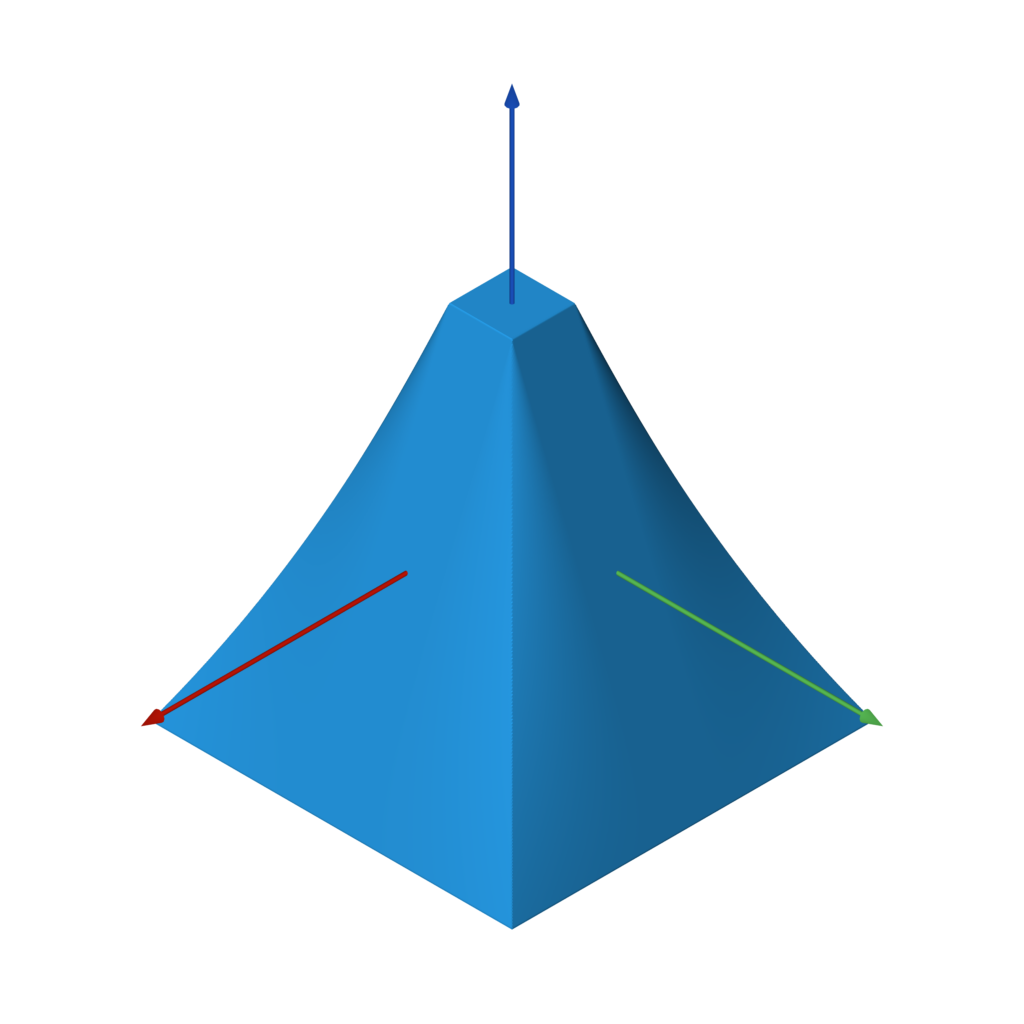
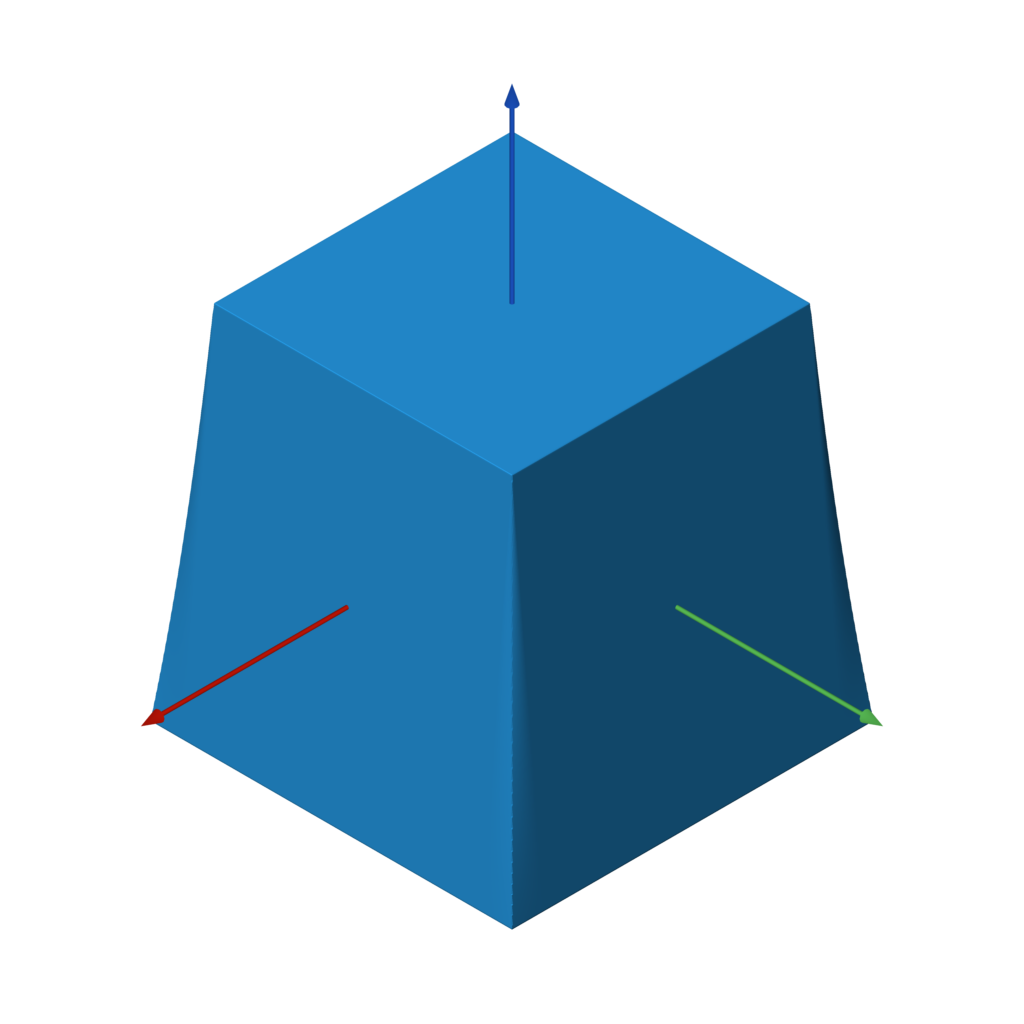
wip, fix taper example

diff --git a/docs/render.py b/docs/render.py
@@ -210,7 +210,7 @@ generate(f, 'rounded_extrude')
 f = rectangle(2).extrude_to(circle(1), 2, ease.in_out_quad)
 generate(f, 'extrude_to')
 
-f = rectangle(2).extrude_to(rectangle(2*np.sin(10/180*np.pi)), 2, ease.linear)
+f = rectangle(2).extrude_to(rectangle(2-2*np.tan(10/180*np.pi)), 2, ease.linear)
 generate(f, 'extrude_to_taper')
 
 # revolve(other, offset=0)

diff --git a/README.md b/README.md
@@ -899,14 +899,16 @@ f = hexagon(1).taper_extrude(1,30/180*np.pi)
 
 `extrude_to(a, b, h, e=ease.linear)`
 
+#### Changing forms
 ```python
 f = rectangle(2).extrude_to(circle(1), 2, ease.in_out_quad)
 ```
 
-Here is an example, showing a taper of 10 degrees:
+#### Tapering
+A tapering of 10 degrees:
 <img width=128 align="right" src="docs/images/extrude_to_taper.png">
 ```python
-f = rectangle(2).extrude_to(rectangle(2*np.sin(10/180*np.pi)), 2, ease.linear)
+f = rectangle(2).extrude_to(rectangle(2-2*np.tan(10/180*np.pi)), 2, ease.linear)
 ```
 
 
